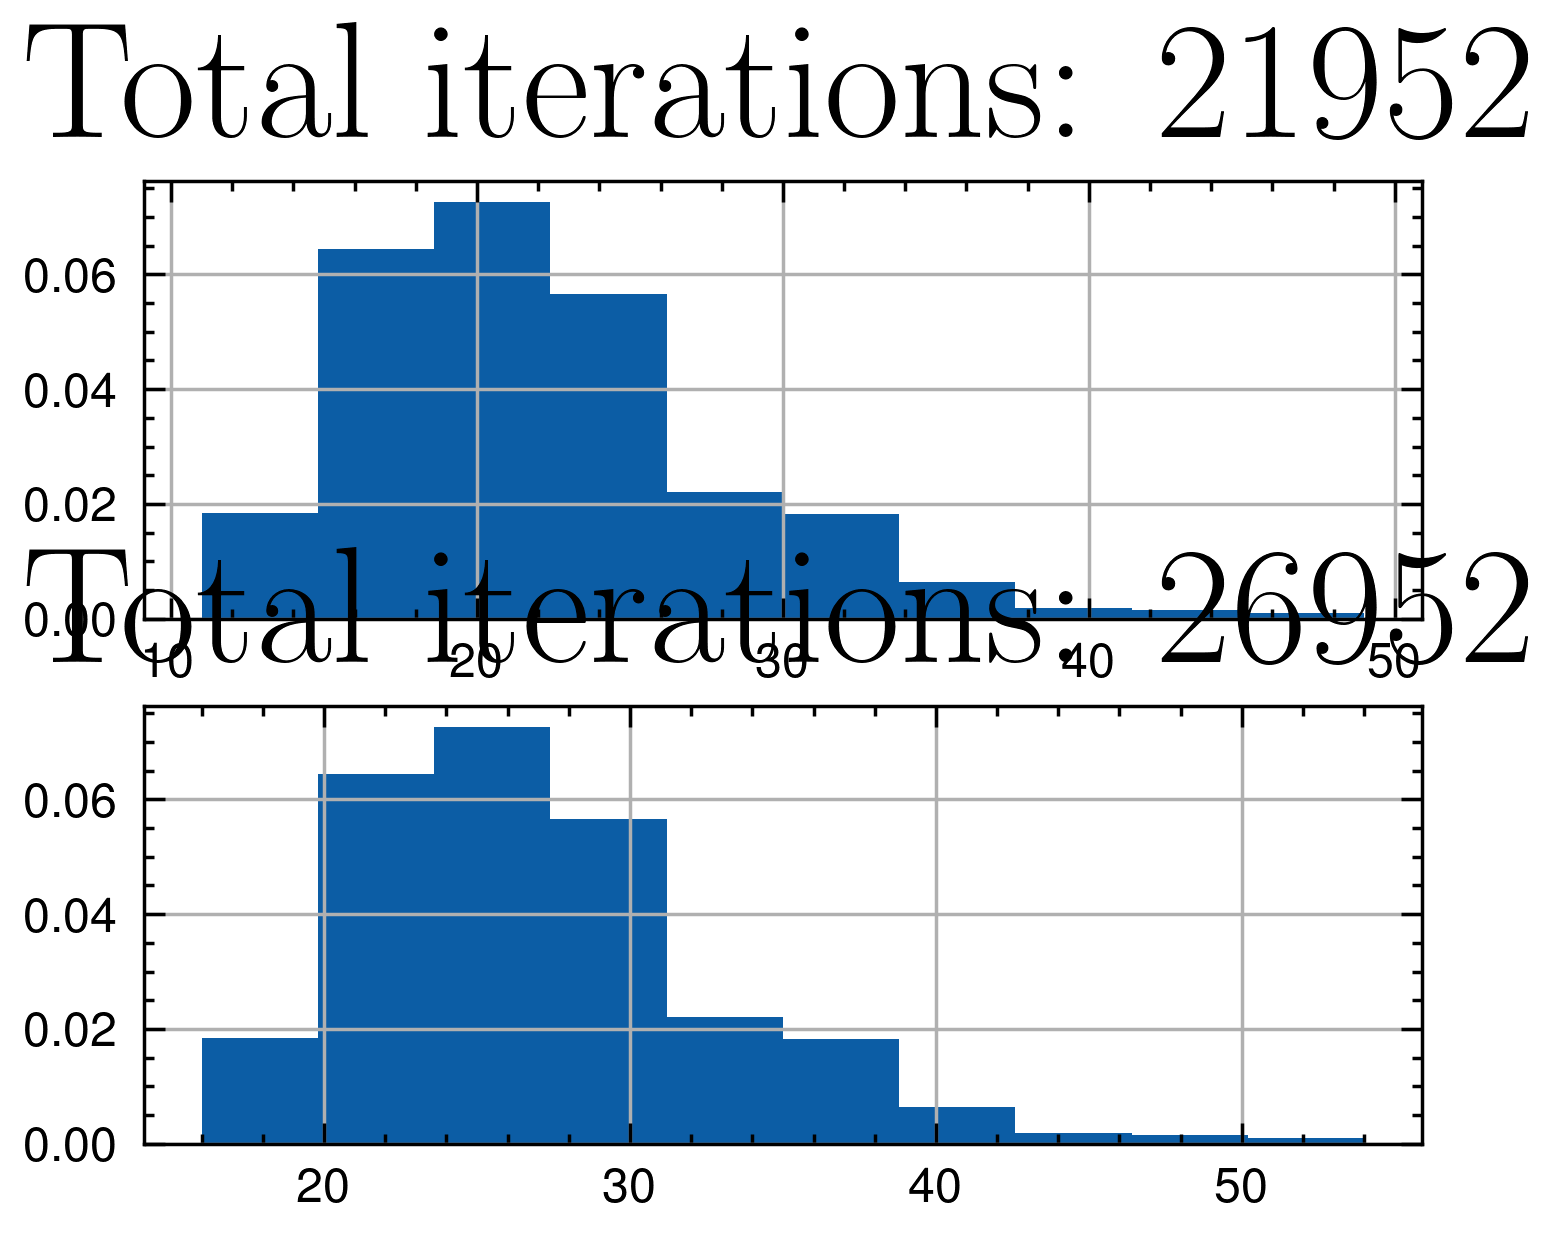
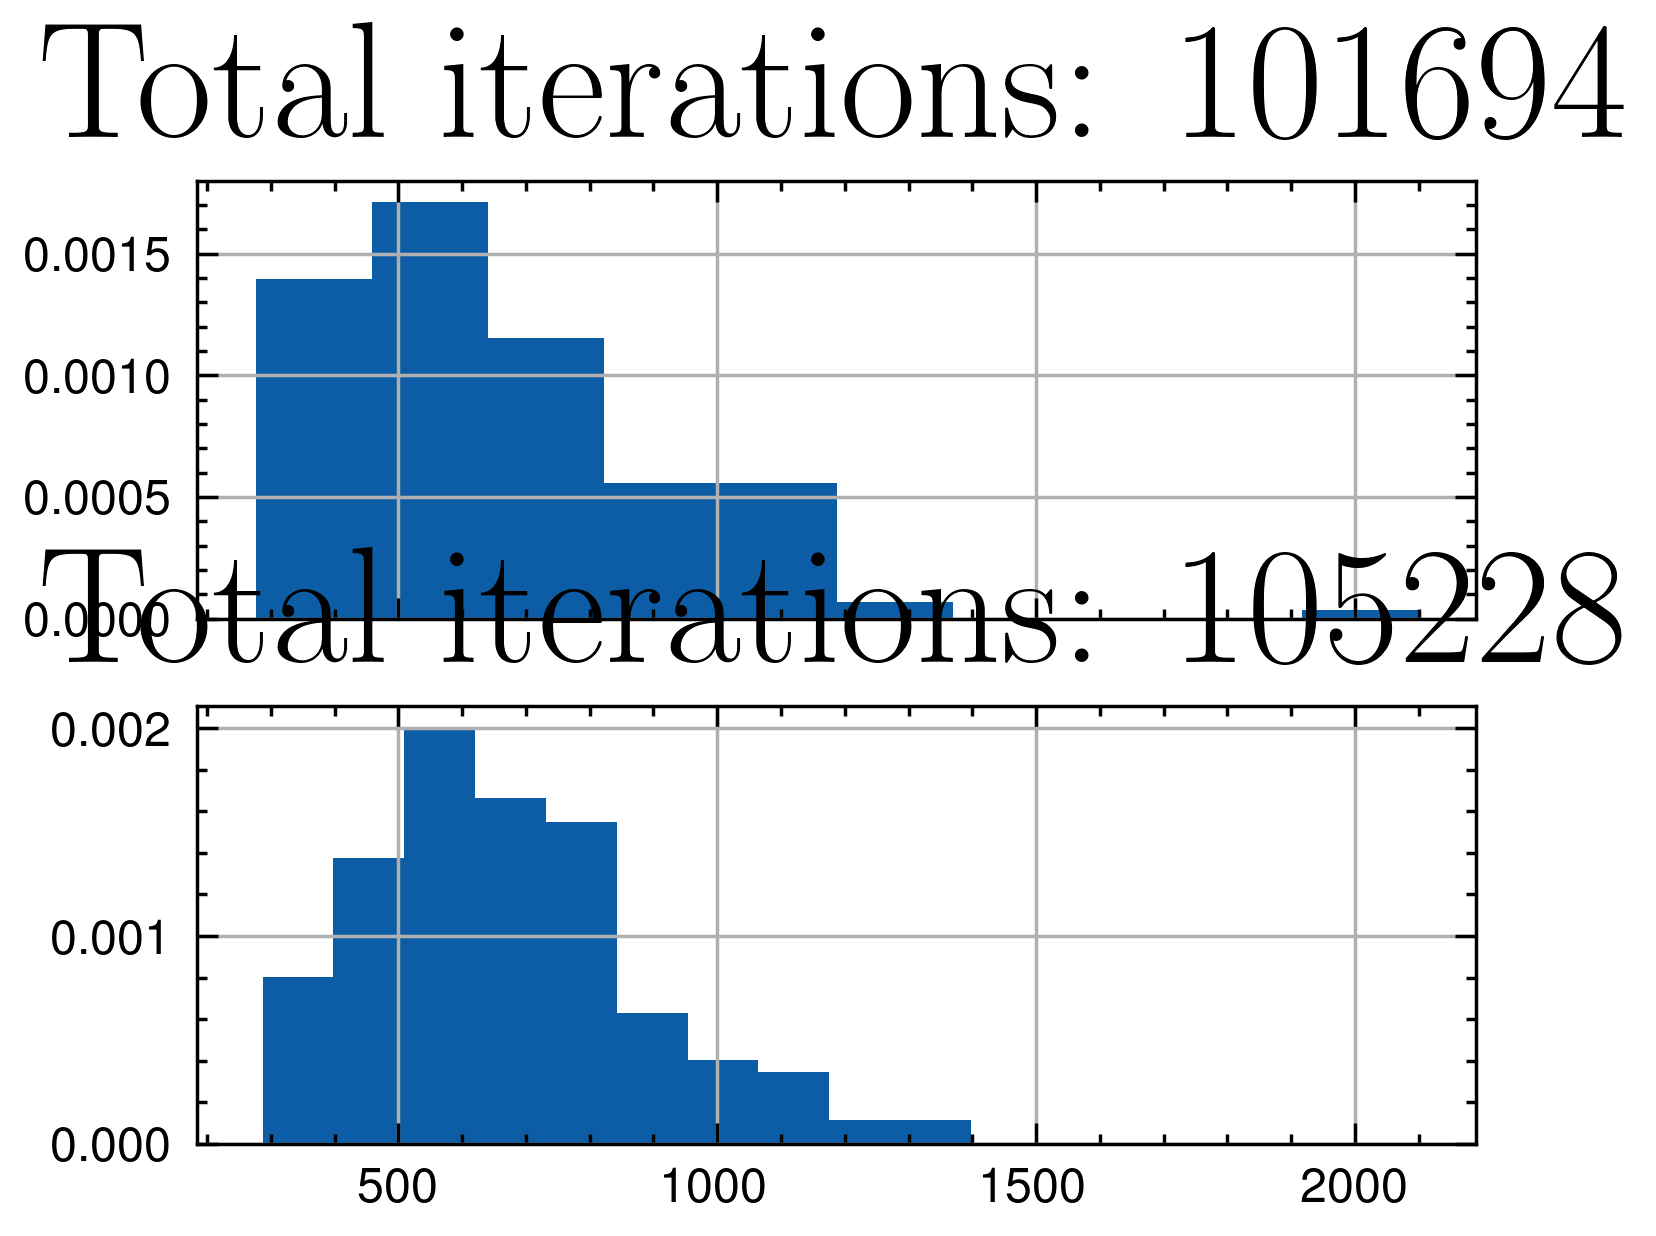
new experiment q3 nn

diff --git a/qlib/visualization.py b/qlib/visualization.py
@@ -54,7 +54,7 @@ def compare(data, title=''):
     num_experiments = data.shape[1]
     num_points = data.shape[0]
 
-    fig, axes = plt.subplots(num_experiments)
+    fig, axes = plt.subplots(num_experiments, sharex=True)
     for i in range(num_experiments):
         ax = axes[i]
         series = data[:, i]
@@ -67,19 +67,24 @@ if __name__=='__main__':
     parent_dir = os.path.join(os.path.dirname(os.getcwd()), 'experiments', 'pauli')
     filename = 'OptimalParameters'
     figname = 'grid'
-    io = ExperimentIO(parent_dir, 'q3_last_best')
+    io_knn = ExperimentIO(parent_dir, 'q3_last_best')
+    io_mlp = ExperimentIO(parent_dir, 'q3_nn')
 
-    vqls_params = io.loadtxt(filename)
+    vqls_params = io_knn.loadtxt(filename)
     names = [f'$\\alpha_{i:d}$' for i in range(vqls_params.shape[1])]
     df = pd.DataFrame(vqls_params, columns=names)
     fig = pdf(df, dim=2,  vars=names[4:7] )
-    io.savefig(fig, figname)
-    
-    
-    iterations = io.loadtxt('NumIterations',  ndmin=2).astype(int)
-    iterations = np.hstack([iterations, iterations +5])
+    io_knn.savefig(fig, figname)
+
+    iterations_mlp = io_mlp.loadtxt('NumFunctionEvaluations', ndmin=2).astype(int)[-157:]
+    iterations_knn = io_knn.loadtxt('NumFunctionEvaluations', ndmin=2).astype(int)[-157:]
+    iterations = np.hstack([iterations_knn, iterations_mlp])
+
+    mean_knn = np.mean(iterations_knn)
+    mean_mlp = np.mean(iterations_mlp)
+
     fig = compare(iterations, 'iterations')
-    io.savefig(fig, 'iterations')
+    io_knn.savefig(fig, 'iterations')
 
     plt.show()
 
